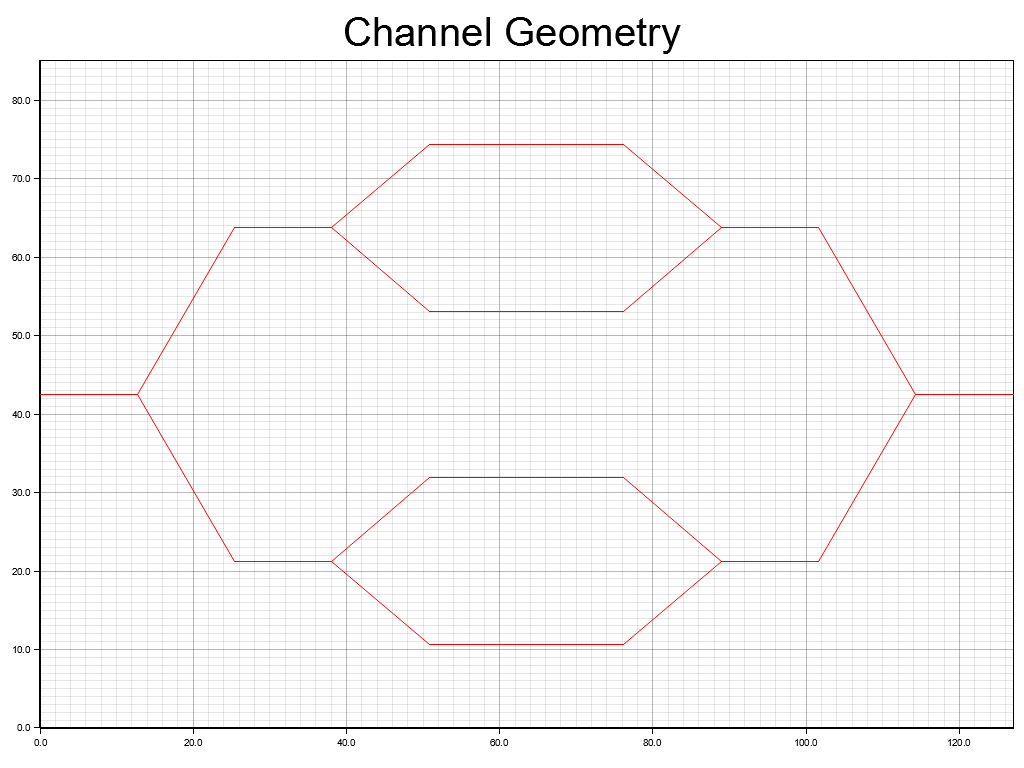
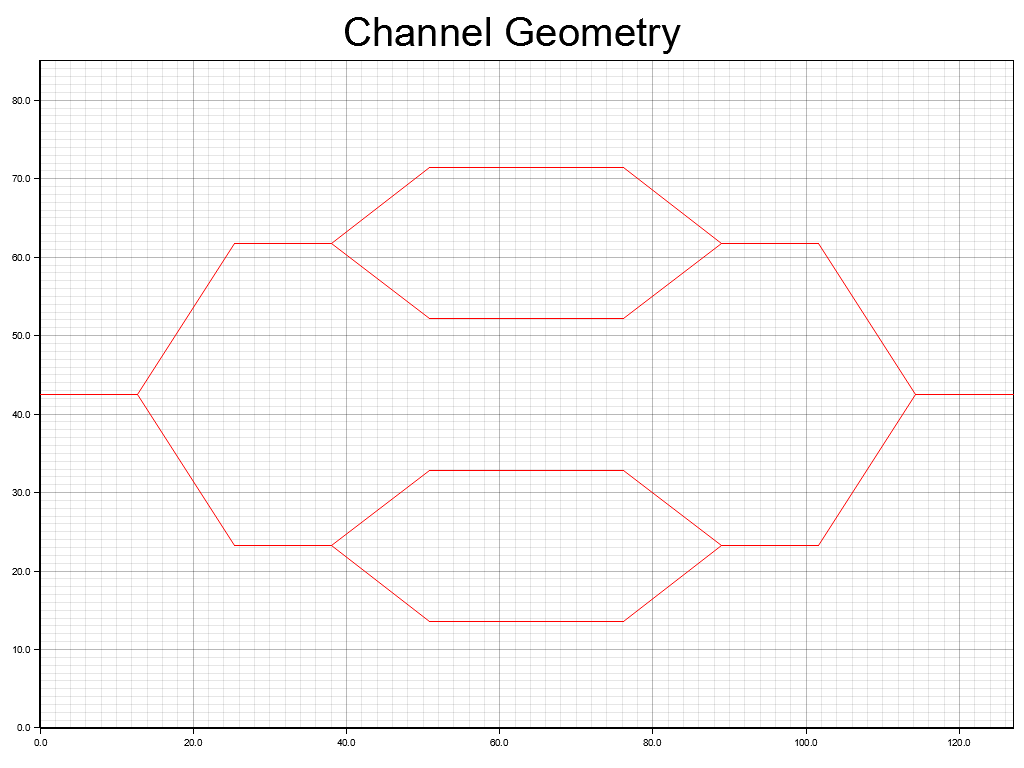
refactor geometry examples to use unified create_geometry function with SplitType

diff --git a/src/geometry.rs b/src/geometry.rs
@@ -7,75 +7,12 @@ pub struct ChannelSystem {
     pub lines: Vec<(Point, Point)>,
 }
 
-pub fn create_dynamic_split_geometry(box_dims: (f64, f64), num_splits: u32) -> ChannelSystem {
-    const WALL_CLEARANCE: f64 = 4.0;
-    let (length, width) = box_dims;
-    let mut lines = Vec::new();
-
-    if num_splits == 0 {
-        lines.push(((0.0, width / 2.0), (length, width / 2.0)));
-        return ChannelSystem { box_dims, lines };
-    }
-
-    let effective_width = width - (2.0 * WALL_CLEARANCE);
-
-    let half_l = length / 2.0;
-    let num_segments_per_half = num_splits as f64 * 2.0 + 1.0;
-    let dx = half_l / num_segments_per_half;
-
-    let mut y_coords: Vec<f64> = vec![width / 2.0];
-    let mut y_ranges: Vec<f64> = vec![effective_width];
-    let mut current_x = 0.0;
-
-    let mut first_half_lines = Vec::new();
-
-    for _ in 0..num_splits {
-        let mut next_y_coords = Vec::new();
-        let mut next_y_ranges = Vec::new();
-
-        for y in &y_coords {
-            first_half_lines.push(((current_x, *y), (current_x + dx, *y)));
-        }
-        current_x += dx;
-
-        for (i, y_center) in y_coords.iter().enumerate() {
-            let y_range = y_ranges[i];
-            let y_separation = y_range / 2.0;
-            let y_upper = y_center + y_separation / 2.0;
-            let y_lower = y_center - y_separation / 2.0;
-
-            first_half_lines.push(((current_x, *y_center), (current_x + dx, y_upper)));
-            first_half_lines.push(((current_x, *y_center), (current_x + dx, y_lower)));
-
-            next_y_coords.push(y_upper);
-            next_y_coords.push(y_lower);
-            next_y_ranges.push(y_separation);
-            next_y_ranges.push(y_separation);
-        }
-        y_coords = next_y_coords;
-        y_ranges = next_y_ranges;
-        current_x += dx;
-    }
-
-    for y in &y_coords {
-        first_half_lines.push(((current_x, *y), (half_l, *y)));
-    }
-
-    let mut second_half_lines = Vec::new();
-    for line in &first_half_lines {
-        let (p1, p2) = *line;
-        let mirrored_p1 = (length - p2.0, p2.1);
-        let mirrored_p2 = (length - p1.0, p1.1);
-        second_half_lines.push((mirrored_p1, mirrored_p2));
-    }
-
-    lines.extend(first_half_lines);
-    lines.extend(second_half_lines);
-
-    ChannelSystem { box_dims, lines }
+pub enum SplitType {
+    Bifurcation,
+    Trifurcation,
 }
 
-pub fn create_trifurcation_geometry(box_dims: (f64, f64), num_splits: u32) -> ChannelSystem {
+pub fn create_geometry(box_dims: (f64, f64), num_splits: u32, split_type: SplitType) -> ChannelSystem {
     const WALL_CLEARANCE: f64 = 4.0;
     let (length, width) = box_dims;
     let mut lines = Vec::new();
@@ -108,20 +45,38 @@ pub fn create_trifurcation_geometry(box_dims: (f64, f64), num_splits: u32) -> Ch
 
         for (i, y_center) in y_coords.iter().enumerate() {
             let y_range = y_ranges[i];
-            let y_separation = y_range / 3.0; 
-            let y_upper = y_center + y_separation;
-            let y_lower = y_center - y_separation;
 
-            first_half_lines.push(((current_x, *y_center), (current_x + dx, y_upper)));
-            first_half_lines.push(((current_x, *y_center), (current_x + dx, *y_center)));
-            first_half_lines.push(((current_x, *y_center), (current_x + dx, y_lower)));
+            match split_type {
+                SplitType::Bifurcation => {
+                    let y_separation = y_range / 2.0;
+                    let y_upper = y_center + y_separation / 2.0;
+                    let y_lower = y_center - y_separation / 2.0;
 
-            next_y_coords.push(y_upper);
-            next_y_coords.push(*y_center);
-            next_y_coords.push(y_lower);
-            next_y_ranges.push(y_separation);
-            next_y_ranges.push(y_separation);
-            next_y_ranges.push(y_separation);
+                    first_half_lines.push(((current_x, *y_center), (current_x + dx, y_upper)));
+                    first_half_lines.push(((current_x, *y_center), (current_x + dx, y_lower)));
+
+                    next_y_coords.push(y_upper);
+                    next_y_coords.push(y_lower);
+                    next_y_ranges.push(y_separation);
+                    next_y_ranges.push(y_separation);
+                }
+                SplitType::Trifurcation => {
+                    let y_separation = y_range / 3.0;
+                    let y_upper = y_center + y_separation;
+                    let y_lower = y_center - y_separation;
+
+                    first_half_lines.push(((current_x, *y_center), (current_x + dx, y_upper)));
+                    first_half_lines.push(((current_x, *y_center), (current_x + dx, *y_center)));
+                    first_half_lines.push(((current_x, *y_center), (current_x + dx, y_lower)));
+
+                    next_y_coords.push(y_upper);
+                    next_y_coords.push(*y_center);
+                    next_y_coords.push(y_lower);
+                    next_y_ranges.push(y_separation);
+                    next_y_ranges.push(y_separation);
+                    next_y_ranges.push(y_separation);
+                }
+            }
         }
         y_coords = next_y_coords;
         y_ranges = next_y_ranges;

diff --git a/examples/trifurcation/double_trifurcation.rs b/examples/trifurcation/double_trifurcation.rs
@@ -1,4 +1,7 @@
-use pyvismil::{drawing::plot_geometry, geometry::create_trifurcation_geometry};
+use pyvismil::{
+    drawing::plot_geometry,
+    geometry::{create_geometry, SplitType},
+};
 use std::fs;
 
 fn main() -> Result<(), Box<dyn std::error::Error>> {
@@ -14,7 +17,7 @@ fn main() -> Result<(), Box<dyn std::error::Error>> {
         "Generating trifurcation geometry with {} split(s)...",
         NUM_SPLITS
     );
-    let channel_system = create_trifurcation_geometry(box_dimensions, NUM_SPLITS);
+    let channel_system = create_geometry(box_dimensions, NUM_SPLITS, SplitType::Trifurcation);
 
     println!("Plotting geometry to {}...", output_path);
     plot_geometry(&channel_system, &output_path)?;

diff --git a/examples/trifurcation/five_trifurcation.rs b/examples/trifurcation/five_trifurcation.rs
@@ -1,4 +1,7 @@
-use pyvismil::{drawing::plot_geometry, geometry::create_trifurcation_geometry};
+use pyvismil::{
+    drawing::plot_geometry,
+    geometry::{create_geometry, SplitType},
+};
 use std::fs;
 
 fn main() -> Result<(), Box<dyn std::error::Error>> {
@@ -14,7 +17,7 @@ fn main() -> Result<(), Box<dyn std::error::Error>> {
         "Generating trifurcation geometry with {} split(s)...",
         NUM_SPLITS
     );
-    let channel_system = create_trifurcation_geometry(box_dimensions, NUM_SPLITS);
+    let channel_system = create_geometry(box_dimensions, NUM_SPLITS, SplitType::Trifurcation);
 
     println!("Plotting geometry to {}...", output_path);
     plot_geometry(&channel_system, &output_path)?;

diff --git a/examples/trifurcation/four_trifurcation.rs b/examples/trifurcation/four_trifurcation.rs
@@ -1,4 +1,7 @@
-use pyvismil::{drawing::plot_geometry, geometry::create_trifurcation_geometry};
+use pyvismil::{
+    drawing::plot_geometry,
+    geometry::{create_geometry, SplitType},
+};
 use std::fs;
 
 fn main() -> Result<(), Box<dyn std::error::Error>> {
@@ -14,7 +17,7 @@ fn main() -> Result<(), Box<dyn std::error::Error>> {
         "Generating trifurcation geometry with {} split(s)...",
         NUM_SPLITS
     );
-    let channel_system = create_trifurcation_geometry(box_dimensions, NUM_SPLITS);
+    let channel_system = create_geometry(box_dimensions, NUM_SPLITS, SplitType::Trifurcation);
 
     println!("Plotting geometry to {}...", output_path);
     plot_geometry(&channel_system, &output_path)?;

diff --git a/examples/trifurcation/single_trifurcation.rs b/examples/trifurcation/single_trifurcation.rs
@@ -1,4 +1,7 @@
-use pyvismil::{drawing::plot_geometry, geometry::create_trifurcation_geometry};
+use pyvismil::{
+    drawing::plot_geometry,
+    geometry::{create_geometry, SplitType},
+};
 use std::fs;
 
 fn main() -> Result<(), Box<dyn std::error::Error>> {
@@ -14,7 +17,7 @@ fn main() -> Result<(), Box<dyn std::error::Error>> {
         "Generating trifurcation geometry with {} split(s)...",
         NUM_SPLITS
     );
-    let channel_system = create_trifurcation_geometry(box_dimensions, NUM_SPLITS);
+    let channel_system = create_geometry(box_dimensions, NUM_SPLITS, SplitType::Trifurcation);
 
     println!("Plotting geometry to {}...", output_path);
     plot_geometry(&channel_system, &output_path)?;

diff --git a/examples/trifurcation/triple_trifurcation.rs b/examples/trifurcation/triple_trifurcation.rs
@@ -1,4 +1,7 @@
-use pyvismil::{drawing::plot_geometry, geometry::create_trifurcation_geometry};
+use pyvismil::{
+    drawing::plot_geometry,
+    geometry::{create_geometry, SplitType},
+};
 use std::fs;
 
 fn main() -> Result<(), Box<dyn std::error::Error>> {
@@ -14,7 +17,7 @@ fn main() -> Result<(), Box<dyn std::error::Error>> {
         "Generating trifurcation geometry with {} split(s)...",
         NUM_SPLITS
     );
-    let channel_system = create_trifurcation_geometry(box_dimensions, NUM_SPLITS);
+    let channel_system = create_geometry(box_dimensions, NUM_SPLITS, SplitType::Trifurcation);
 
     println!("Plotting geometry to {}...", output_path);
     plot_geometry(&channel_system, &output_path)?;

diff --git a/examples/bifurcation/single_split.rs b/examples/bifurcation/single_split.rs
@@ -1,4 +1,7 @@
-use pyvismil::{drawing::plot_geometry, geometry::create_dynamic_split_geometry};
+use pyvismil::{
+    drawing::plot_geometry,
+    geometry::{create_geometry, SplitType},
+};
 use std::fs;
 
 fn main() -> Result<(), Box<dyn std::error::Error>> {
@@ -14,7 +17,7 @@ fn main() -> Result<(), Box<dyn std::error::Error>> {
         "Generating dynamic geometry with {} split(s)...",
         NUM_SPLITS
     );
-    let channel_system = create_dynamic_split_geometry(box_dimensions, NUM_SPLITS);
+    let channel_system = create_geometry(box_dimensions, NUM_SPLITS, SplitType::Bifurcation);
 
     println!("Plotting geometry to {}...", output_path);
     plot_geometry(&channel_system, &output_path)?;

diff --git a/examples/bifurcation/double_split.rs b/examples/bifurcation/double_split.rs
@@ -1,4 +1,7 @@
-use pyvismil::{drawing::plot_geometry, geometry::create_dynamic_split_geometry};
+use pyvismil::{
+    drawing::plot_geometry,
+    geometry::{create_geometry, SplitType},
+};
 use std::fs;
 
 fn main() -> Result<(), Box<dyn std::error::Error>> {
@@ -14,7 +17,7 @@ fn main() -> Result<(), Box<dyn std::error::Error>> {
         "Generating dynamic geometry with {} splits...",
         NUM_SPLITS
     );
-    let channel_system = create_dynamic_split_geometry(box_dimensions, NUM_SPLITS);
+    let channel_system = create_geometry(box_dimensions, NUM_SPLITS, SplitType::Bifurcation);
 
     println!("Plotting geometry to {}...", output_path);
     plot_geometry(&channel_system, &output_path)?;

diff --git a/examples/bifurcation/five_split.rs b/examples/bifurcation/five_split.rs
@@ -1,4 +1,7 @@
-use pyvismil::{drawing::plot_geometry, geometry::create_dynamic_split_geometry};
+use pyvismil::{
+    drawing::plot_geometry,
+    geometry::{create_geometry, SplitType},
+};
 use std::fs;
 
 fn main() -> Result<(), Box<dyn std::error::Error>> {
@@ -14,7 +17,7 @@ fn main() -> Result<(), Box<dyn std::error::Error>> {
         "Generating dynamic geometry with {} splits...",
         NUM_SPLITS
     );
-    let channel_system = create_dynamic_split_geometry(box_dimensions, NUM_SPLITS);
+    let channel_system = create_geometry(box_dimensions, NUM_SPLITS, SplitType::Bifurcation);
 
     println!("Plotting geometry to {}...", output_path);
     plot_geometry(&channel_system, &output_path)?;

diff --git a/examples/bifurcation/four_split.rs b/examples/bifurcation/four_split.rs
@@ -1,4 +1,7 @@
-use pyvismil::{drawing::plot_geometry, geometry::create_dynamic_split_geometry};
+use pyvismil::{
+    drawing::plot_geometry,
+    geometry::{create_geometry, SplitType},
+};
 use std::fs;
 
 fn main() -> Result<(), Box<dyn std::error::Error>> {
@@ -14,7 +17,7 @@ fn main() -> Result<(), Box<dyn std::error::Error>> {
         "Generating dynamic geometry with {} splits...",
         NUM_SPLITS
     );
-    let channel_system = create_dynamic_split_geometry(box_dimensions, NUM_SPLITS);
+    let channel_system = create_geometry(box_dimensions, NUM_SPLITS, SplitType::Bifurcation);
 
     println!("Plotting geometry to {}...", output_path);
     plot_geometry(&channel_system, &output_path)?;

diff --git a/examples/bifurcation/triple_split.rs b/examples/bifurcation/triple_split.rs
@@ -1,4 +1,7 @@
-use pyvismil::{drawing::plot_geometry, geometry::create_dynamic_split_geometry};
+use pyvismil::{
+    drawing::plot_geometry,
+    geometry::{create_geometry, SplitType},
+};
 use std::fs;
 
 fn main() -> Result<(), Box<dyn std::error::Error>> {
@@ -14,7 +17,7 @@ fn main() -> Result<(), Box<dyn std::error::Error>> {
         "Generating dynamic geometry with {} splits...",
         NUM_SPLITS
     );
-    let channel_system = create_dynamic_split_geometry(box_dimensions, NUM_SPLITS);
+    let channel_system = create_geometry(box_dimensions, NUM_SPLITS, SplitType::Bifurcation);
 
     println!("Plotting geometry to {}...", output_path);
     plot_geometry(&channel_system, &output_path)?;
